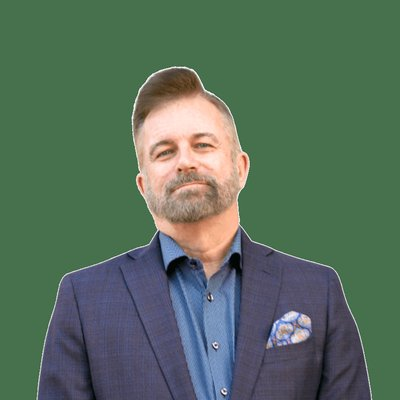
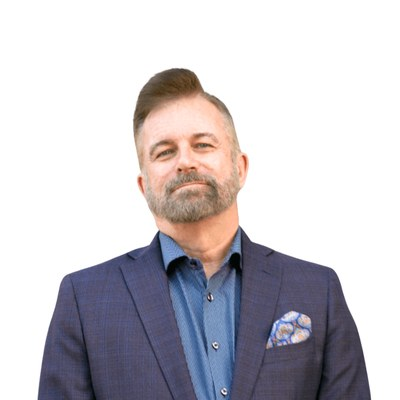
Directory: fix Ray Myers photo (composite transparent PNG on white)

diff --git a/crop_directory_photos.py b/crop_directory_photos.py
@@ -70,7 +70,17 @@ def process(rec):
         req = urllib.request.Request(photo_url, headers={'User-Agent': 'Mozilla/5.0'})
         with urllib.request.urlopen(req, timeout=25) as r:
             data = r.read()
-        img = Image.open(io.BytesIO(data)).convert('RGB')
+        img = Image.open(io.BytesIO(data))
+        # If the source has transparency, composite onto white BEFORE converting
+        # to RGB — otherwise the transparent area becomes palette-index-0
+        # (often green) which looks like a broken chroma key.
+        if img.mode in ('RGBA', 'LA') or (img.mode == 'P' and 'transparency' in img.info):
+            img = img.convert('RGBA')
+            bg = Image.new('RGB', img.size, (255, 255, 255))
+            bg.paste(img, mask=img.split()[3])
+            img = bg
+        else:
+            img = img.convert('RGB')
         src_size = img.size
         cropped, method = smart_crop_square(img)
         cropped = cropped.resize((400, 400), Image.LANCZOS)
